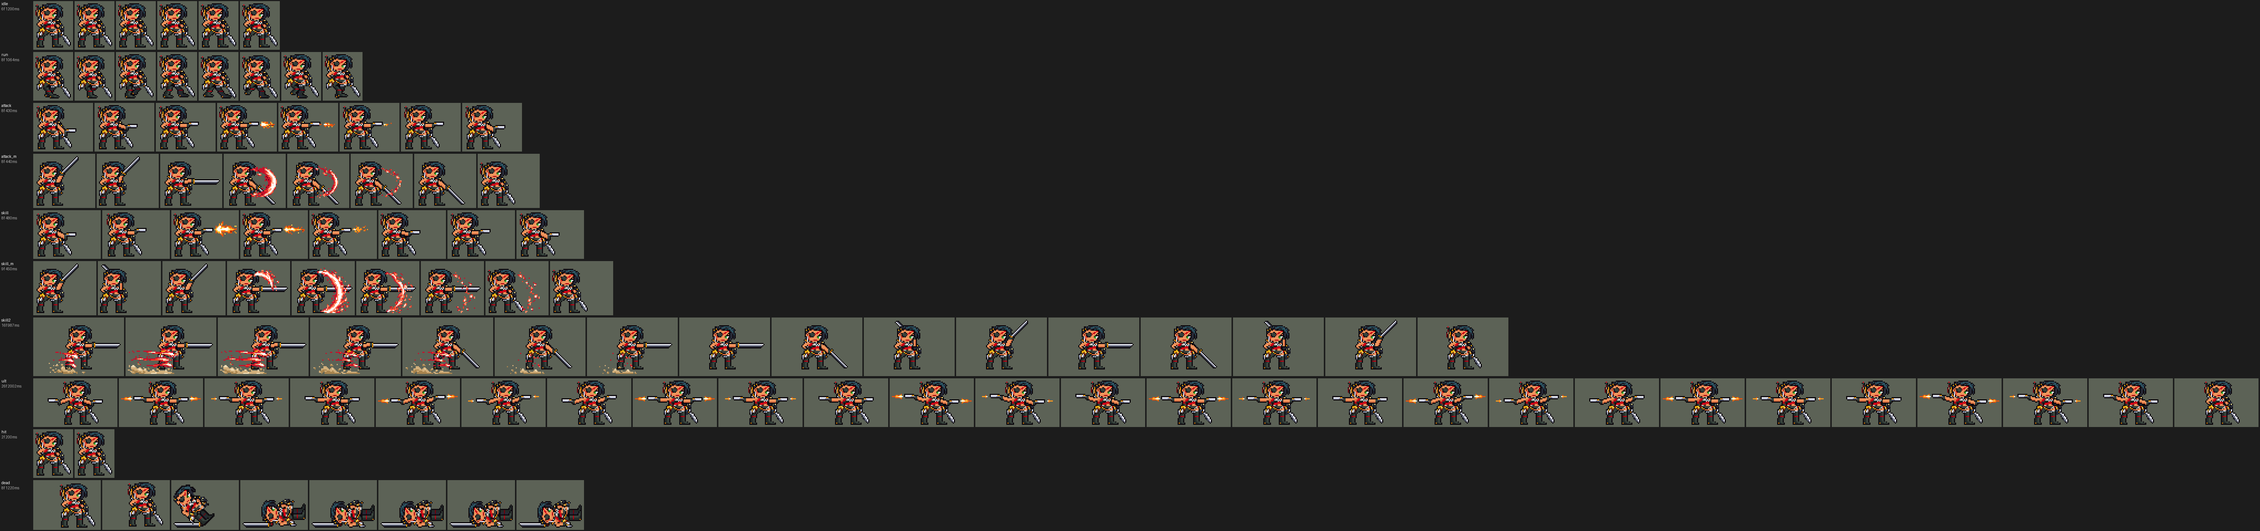
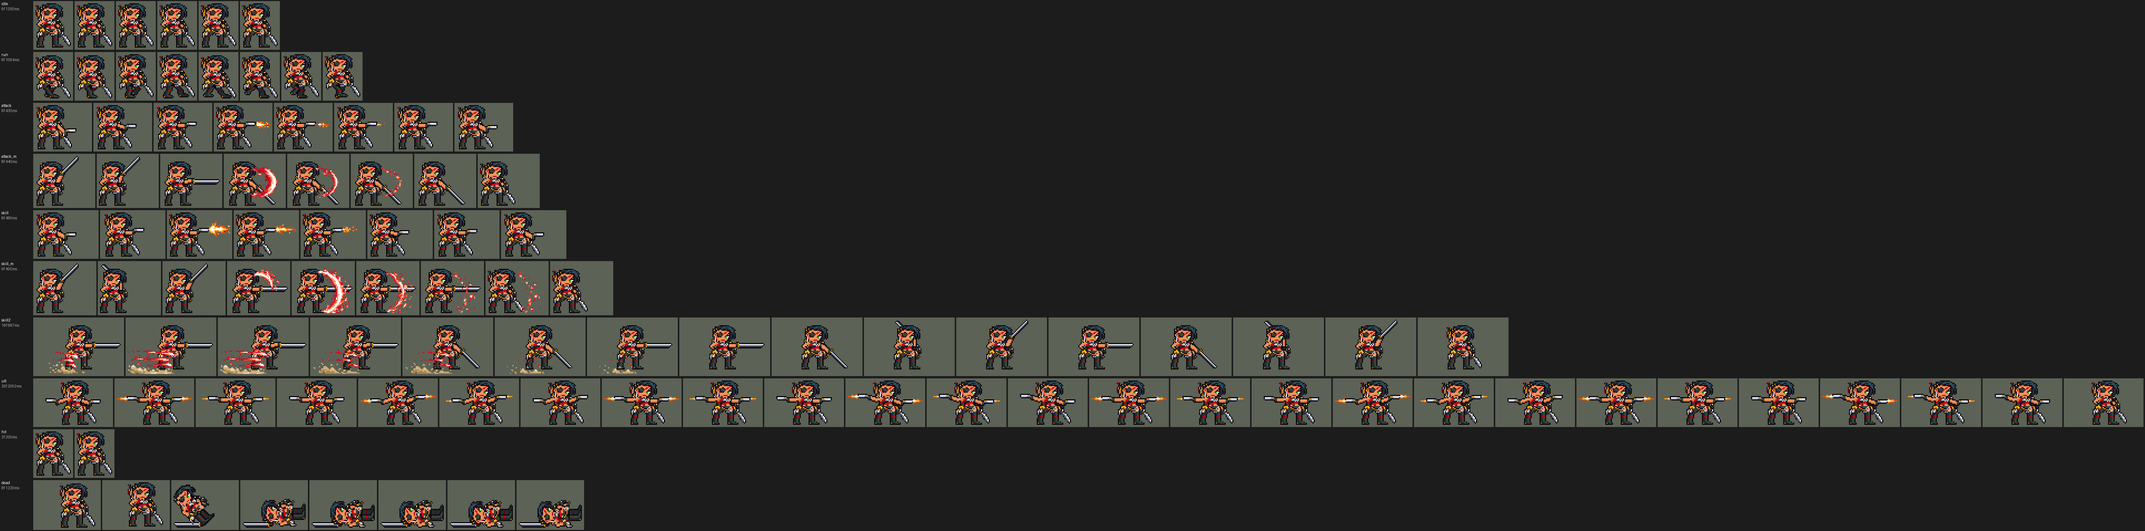
Samira: README, champion-data and porting rows; 0.66.0 after main's Kayn 0.65.0; flashes on the muzzles
- the muzzle flashes moved onto the barrels' ends (1-3 squares of gap)
- README: her section (kit, numbers +1.73 / +1.38, art route with the user's words, red side), the showcase, the list
- champion-data: Yasuo synergy line (0.25 a game, no change), the probe-picked gun/sword attack, the Style grade
  climb, the ult only at full grade; porting-heroes: four rows

Changed region(s): [[0.0, 0.0, 0.7165, 1.0], [0.7165, 0.7188, 0.8723, 0.7812], [0.8723, 0.7188, 0.9969, 0.7812]]

diff --git a/tools/kit/setup_samira.py b/tools/kit/setup_samira.py
@@ -4,7 +4,7 @@
 
 Writes (in league/): text/champion.i18n (league_samira in every language, description + skill_name),
 sound/sfx/league_samira_*.sound_info, mod.override_info (every sound and clip), style/champion_view (face, centre and the
-ban/pick card's point once the sprite is in), mod.mod_info (0.65.0, Samira named). Only her keys change in the shared
+ban/pick card's point once the sprite is in), mod.mod_info (0.66.0, Samira named). Only her keys change in the shared
 files. JSON: indent 2, CRLF, UTF-8. --check only prints each text's shown length against lint_mod's TOOLTIP_MAX.
 Names: the client's zh_CN string table (莎弥拉 / 沙漠玫瑰, 悍勇本色, 交火, 锋旋, 狂飙, 炼狱扳机) and Data Dragon 16.19.1
 (zh_TW 煞蜜拉 / 荒漠薔薇, 敢死風采, 狂戰本能, 劍刃風暴, 狂野突進, 地獄火狂襲; ko 사미라 / 사막의 장미, 무모한 충동, 천부적 재능,

diff --git a/README.md b/README.md
@@ -2,7 +2,7 @@
 
 团战经理2（Teamfight Manager 2）的英雄联盟英雄 Mod，mod_id 是 `league`。纯数据 mod：不改游戏本体，不需要编译。
 
-英雄：盖伦（`league_garen`）、艾希（`league_ashe`）、拉克丝（`league_lux`）、李青（`league_leesin`）、索拉卡（`league_soraka`）、德莱厄斯（`league_darius`）、阿木木（`league_amumu`）、亚索（`league_yasuo`）、金克丝（`league_jinx`）、蕾欧娜（`league_leona`）、提莫（`league_teemo`）、易（`league_masteryi`）、安妮（`league_annie`）、厄运小姐（`league_missfortune`）、迦娜（`league_janna`）、墨菲特（`league_malphite`）、艾克（`league_ekko`）、永恩（`league_yone`）、伊泽瑞尔（`league_ezreal`）、锤石（`league_thresh`）、凯尔（`league_kayle`）、费德提克（`league_fiddlesticks`）、阿狸（`league_ahri`）、卢锡安（`league_lucian`）、莫甘娜（`league_morgana`）、锐雯（`league_riven`）、贝蕾亚（`league_briar`）、阿卡丽（`league_akali`）、薇恩（`league_vayne`）、娜美（`league_nami`）、贾克斯（`league_jax`）、黛安娜（`league_diana`）、维迦（`league_veigar`）、塔里克（`league_taric`）、崔丝塔娜（`league_tristana`）、菲奥娜（`league_fiora`）、菲兹（`league_fizz`）、萨科（`league_shaco`）、凯特琳（`league_caitlyn`）、魔腾（`league_nocturne`）、布里茨（`league_blitzcrank`）、卡蜜尔（`league_camille`）、乐芙兰（`league_leblanc`）、卡莎（`league_kaisa`）、娑娜（`league_sona`）、凯南（`league_kennen`）、蔚（`league_vi`）、瑞兹（`league_ryze`）、烬（`league_jhin`）、基兰（`league_zilean`）、亚托克斯（`league_aatrox`）、凯隐（`league_kayn`）、希维尔（`league_sivir`）、崔斯特（`league_twistedfate`）、洛（`league_rakan`）、伊芙琳（`league_evelynn`）、瑟提（`league_sett`）、丽桑卓（`league_lissandra`）、韦鲁斯（`league_varus`）、阿利斯塔（`league_alistar`）、蛮王（`league_tryndamere`）、泽拉斯（`league_xerath`）、赵信（`league_xinzhao`）。每组上单、打野、中单、ADC、辅助各一：第一组盖伦、李青、拉克丝、艾希、索拉卡，第二组德莱厄斯、阿木木、亚索、金克丝、蕾欧娜，第三组提莫、易（无极剑圣）、安妮、厄运小姐、迦娜，第四组墨菲特、艾克、永恩、伊泽瑞尔、锤石，第五组有上单凯尔、打野费德提克、中单阿狸、ADC 卢锡安、辅助莫甘娜，第六组有上单锐雯、打野贝蕾亚、中单阿卡丽、ADC 薇恩、辅助娜美，第七组有上单贾克斯、中单维迦、ADC 崔丝塔娜、辅助塔里克，第八组有上单菲奥娜（剑姬，排在原定凯南的位置，凯南延后）、中单菲兹、ADC 凯特琳、辅助布里茨，第九组有上单卡蜜尔（青钢影）、打野魔腾、中单乐芙兰、ADC 卡莎、辅助娑娜。按用户 10 月 2 日排的顺序，打野黛安娜是第七组的，萨科是第八组的。第十组有上单凯南、打野蔚、中单瑞兹、ADC 烬、辅助基兰。第十一组有上单亚托克斯（剑魔）、打野凯隐、中单崔斯特、ADC 希维尔、辅助洛。第十二组有上单瑟提（腕豪）、打野伊芙琳、中单丽桑卓、ADC 韦鲁斯、辅助阿利斯塔（牛头）。第十三组有上单蛮王、打野赵信。蛮王之后按用户的计划做中单泽拉斯。
+英雄：盖伦（`league_garen`）、艾希（`league_ashe`）、拉克丝（`league_lux`）、李青（`league_leesin`）、索拉卡（`league_soraka`）、德莱厄斯（`league_darius`）、阿木木（`league_amumu`）、亚索（`league_yasuo`）、金克丝（`league_jinx`）、蕾欧娜（`league_leona`）、提莫（`league_teemo`）、易（`league_masteryi`）、安妮（`league_annie`）、厄运小姐（`league_missfortune`）、迦娜（`league_janna`）、墨菲特（`league_malphite`）、艾克（`league_ekko`）、永恩（`league_yone`）、伊泽瑞尔（`league_ezreal`）、锤石（`league_thresh`）、凯尔（`league_kayle`）、费德提克（`league_fiddlesticks`）、阿狸（`league_ahri`）、卢锡安（`league_lucian`）、莫甘娜（`league_morgana`）、锐雯（`league_riven`）、贝蕾亚（`league_briar`）、阿卡丽（`league_akali`）、薇恩（`league_vayne`）、娜美（`league_nami`）、贾克斯（`league_jax`）、黛安娜（`league_diana`）、维迦（`league_veigar`）、塔里克（`league_taric`）、崔丝塔娜（`league_tristana`）、菲奥娜（`league_fiora`）、菲兹（`league_fizz`）、萨科（`league_shaco`）、凯特琳（`league_caitlyn`）、魔腾（`league_nocturne`）、布里茨（`league_blitzcrank`）、卡蜜尔（`league_camille`）、乐芙兰（`league_leblanc`）、卡莎（`league_kaisa`）、娑娜（`league_sona`）、凯南（`league_kennen`）、蔚（`league_vi`）、瑞兹（`league_ryze`）、烬（`league_jhin`）、基兰（`league_zilean`）、亚托克斯（`league_aatrox`）、凯隐（`league_kayn`）、希维尔（`league_sivir`）、崔斯特（`league_twistedfate`）、洛（`league_rakan`）、伊芙琳（`league_evelynn`）、瑟提（`league_sett`）、丽桑卓（`league_lissandra`）、韦鲁斯（`league_varus`）、阿利斯塔（`league_alistar`）、蛮王（`league_tryndamere`）、泽拉斯（`league_xerath`）、赵信（`league_xinzhao`）、莎弥拉（`league_samira`）。每组上单、打野、中单、ADC、辅助各一：第一组盖伦、李青、拉克丝、艾希、索拉卡，第二组德莱厄斯、阿木木、亚索、金克丝、蕾欧娜，第三组提莫、易（无极剑圣）、安妮、厄运小姐、迦娜，第四组墨菲特、艾克、永恩、伊泽瑞尔、锤石，第五组有上单凯尔、打野费德提克、中单阿狸、ADC 卢锡安、辅助莫甘娜，第六组有上单锐雯、打野贝蕾亚、中单阿卡丽、ADC 薇恩、辅助娜美，第七组有上单贾克斯、中单维迦、ADC 崔丝塔娜、辅助塔里克，第八组有上单菲奥娜（剑姬，排在原定凯南的位置，凯南延后）、中单菲兹、ADC 凯特琳、辅助布里茨，第九组有上单卡蜜尔（青钢影）、打野魔腾、中单乐芙兰、ADC 卡莎、辅助娑娜。按用户 10 月 2 日排的顺序，打野黛安娜是第七组的，萨科是第八组的。第十组有上单凯南、打野蔚、中单瑞兹、ADC 烬、辅助基兰。第十一组有上单亚托克斯（剑魔）、打野凯隐、中单崔斯特、ADC 希维尔、辅助洛。第十二组有上单瑟提（腕豪）、打野伊芙琳、中单丽桑卓、ADC 韦鲁斯、辅助阿利斯塔（牛头）。第十三组有上单蛮王、打野赵信、ADC 莎弥拉。蛮王之后按用户的计划做中单泽拉斯。
 
 对敌人放的小技能，施放目标是「敌人（不含防御塔）」，清线、打野时也会放；只有大招、德莱厄斯的 E（拉人）、阿木木的 Q（绷带）、锤石的 Q（钩子）、阿狸的 E（魅惑）、薇恩的 E（恶魔审判）、维迦的 E（扭曲空间）、凯特琳的 W（约德尔诱捕器）、卡莎的 W（虚空索敌）、基兰的 E（时光发条）、洛的 W（盛大登场，落地后接 E 轻舞成双）和阿利斯塔的 W（野蛮冲撞，撞完接大地粉碎）只对英雄放（莫甘娜的 Q 对什么都放，但射程内有敌方英雄时朝英雄射；贝蕾亚的 Q 也一样，射程内有敌方英雄时扑英雄；娜美的 W、Q 也是，射程内有敌方英雄时打英雄；黛安娜的 Q 也一样，射程内有敌方英雄时朝英雄射，E 带着月光再冲的第二下也先找英雄；菲奥娜的 Q、W 也一样，射程内有敌方英雄时冲向、刺向英雄；凯特琳的 Q 也一样，射程内有敌方英雄时朝英雄射；凯南的 Q 也一样，射程内有敌方英雄时锁定英雄射；伊芙琳的 W 也一样，射程内有敌方英雄时先给英雄挂印记；丽桑卓的 Q 也一样，射程内有敌方英雄时朝英雄射，W 身边没人时冰爪只滑向队友正在打的敌方英雄，否则只是扔出去打一下；韦鲁斯的 Q 也一样，射程内有敌方英雄时拉满弓朝英雄射，只有小兵野怪时快速出手）；提莫的 W 是给自己加速和伪装，也只在敌方英雄靠近时放。最早几个英雄的小技能只对英雄放，打野时一直平 A 野怪，按玩家反馈改了。
 
@@ -117,6 +117,8 @@
 ![赵信演示：他跑进场；E 无畏冲锋：飞身持枪扑向德莱厄斯，身后拖着蓝白电光，落地时脚下一圈冲击波，德莱厄斯被减速，头顶亮起三道金爪印；Q 三重爪击：三下强化突刺，爪印一道一道减少，第三下把德莱厄斯挑飞，被动第三下回血的金光；两下普攻后被动大挥再回一次血；W 风斩电刺：身前横扫出金色月牙，再朝前刺出一道电光，穿过德莱厄斯和身后的盖伦，两人脚下减速；R 新月护卫：起手转枪的金光，绕身一圈蓝白新月刃光，被挑战的德莱厄斯留在身边、头顶金色挑战纹章，身后的盖伦被击退，他身后亮起金色护卫光 3 秒；他继续刺，德莱厄斯倒下](docs/preview/league_xinzhao_showcase.gif?v=1006xz)
 
 ![泽拉斯演示：他滑进场，一颗奥术法球打德莱厄斯；Q 奥能脉冲蓄满：举手蓄力、前爪聚起光球，一道长光束贯穿德莱厄斯和身后的盖伦；一颗法球，再一颗法力澎湃的强化法球（手上涌出蓝光、法球绕着闪电）；E 冲击法球打中德莱厄斯，头顶电光转圈晕住，随后他脚下亮起毁灭之眼的法阵、一道光柱砸下来；R 奥术仪式：脚下法阵亮起、光柱冲天，引导时脚下符文法阵转动，连发 4 发炮击——落点先出瞄准圈，光弹从天而降炸开，最后一发击杀德莱厄斯](docs/preview/league_xerath_showcase.gif?v=1006xr2)
+
+![莎弥拉演示：她跑进场，开一枪打德莱厄斯（头顶评价 E）；Q 交火开枪：枪口喷火，一发火焰子弹穿过德莱厄斯和身后的盖伦（D）；E 狂飙：拖着红色速度线和黄沙冲过德莱厄斯（C），落到他身后接 W 锋旋，一圈剑刃火环绕身转，砍两下（B）；她转身朝左（红色方的样子）挥剑砍德莱厄斯（A），Q 近身半月斩（S，头顶金红爆闪）；R 炼狱扳机：原地旋转双枪连射，身边枪火和玫瑰花瓣，子弹打向两人，德莱厄斯倒下、E 刷新的金光](docs/preview/league_samira_showcase.gif?v=1006sm)
 
 ## 英雄：盖伦
 
@@ -2648,6 +2650,46 @@ python addons/league_xinzhao_guard/make_override.py   # 附加包的英雄数据
 - 红色方：出招后才播放的施法者特效（被动回血、E 落地、W 横扫、R 横扫）都不跟随（`is_follow: false`），按朝向镜像；E 冲刺光痕、R 起手在动作第一 tick 播放、跟随。W 电刺是线状弹道的画面，按施法方向转动，做成严格上下对称（Codex 的差 4–12%，按中线镜像），朝左放时转半圈和左右翻转一模一样；R 之后的护卫光是 buff 的画面，游戏不按朝向翻转，做成严格左右对称。`lint_mod.py` 对赵信 0 错误、0 警告。
 
 逐帧预览：[`docs/preview/league_xinzhao_frames.png`](docs/preview/league_xinzhao_frames.png)，特效：[`docs/preview/league_xinzhao_effects.png`](docs/preview/league_xinzhao_effects.png)。
+
+## 英雄：莎弥拉
+
+| 部分 | 内容 |
+|---|---|
+| 定位 | ADC（射手，分类 Range），用户排的第十三组的 ADC（同组：上单蛮王、打野赵信，中单布兰德、辅助派克以后做），第 64 位英雄。沙漠玫瑰 莎弥拉：远处开枪、近身挥剑，打出不同的招式把评分从 E 升到 S，到 S 才能放 R。技能位用户选的「Q / E→W 连招」，W 选「旋转时减伤」，R 选「这个不能走的话可以改RUST文件」（主包里 R 原地旋转连射，主包自己完整可玩；边走边射以后做原生附加包），被动「冲上去挑飞被控制的英雄」选做 |
+| 普攻 / 被动 | 普攻射程 55000（英雄联盟 500 码），攻击间隔 58 tick。第 1 tick 先发一颗看不见的探测弹：目标在 8000 内就挥剑（`attack_m`，第 12 tick 砍中，额外 15 + 20% 攻击力的魔法伤害——英雄联盟的近战加成），否则开枪（第 12 tick 子弹出枪口）。被动「悍勇本色」：用和上一次不同的招式（开枪、挥剑、Q、E、W 各算一种）命中英雄，评价 E→D→C→B→A→S 升一级，每级移速 +3%，9 秒没打到英雄清零；评价字母挂在头顶。攻击被控制住的敌方英雄时冲到他身上把他击飞 0.5 秒（英雄联盟的挑飞连击，6 秒一次，不然会和她自己的击飞无限连） |
+| 技能1 | Q「交火」：冷却 300 tick（5 秒），射程 90000，也对小兵和野怪放。身边 28000 内有敌人时挥剑斩前方的半圆（半径 32000，第 10 tick），否则开枪：一发直线子弹（95000 长，每 tick 9000）打中第一个敌人（第 9 tick 出枪口）。都是 30 + 130% 攻击力的物理伤害，挥剑再加近战加成 |
+| 技能2 | E「狂飙」→ W「锋旋」（英雄联盟的 E→W 连招）：冷却 720 tick（12 秒），只对敌方英雄放（射程 60000）。冲刺穿过目标落到他身后（每 tick 8000），落点 22000 内的敌人受到 70 + 40% 攻击力的魔法伤害，攻击速度 +30% 持续 5 秒；落地接锋旋：原地旋转 0.75 秒，32000 内砍两次（25 + 70% 攻击力 + 近战加成），旋转时受到的普攻伤害降低 60%（英雄联盟是挡掉飞行道具，这里挡不了弹道，用户选的减伤）。被她打中过的英雄 40 tick 内死掉就刷新所有技能冷却（英雄联盟的击杀刷新 E） |
+| 大招 | R「炼狱扳机」：只对敌方英雄放（射程 50000），评价到 S 才会放（AI 会在任何时候放技能位，所以没到 S 时这个技能只「待命」330 tick：到 S 后的下一次普攻放出，没用上就退还冷却，伊芙琳 R 的做法）。原地旋转连射 2 秒（120 tick），每 12 tick 向 55000 内每个敌人各开一枪：10 + 40% 攻击力的物理伤害，期间生命偷取 40%；被控制会打断旋转动作，但枪照样打（英雄联盟的 R 也不停）。放完评价清零。冷却 300 tick |
+| 数值 | 攻击 112（+20）、生命 1030（+92）、护甲 26（+7）、魔抗 15（+3）、移速 900（+9）。数值是自己设计的，用 SDK 对战模拟调：下路，对 4 个原版 ADC（`gunner`、`soldier`、`archer`、`gambler`），3 套阵容、两边各打，10 分钟。初稿 −2.72（E 冲刺距离固定把她留在兵线里、评价 9 秒太短升不到 S）；E 只冲英雄并落到目标身后、挥剑普攻单独算一种招式、攻击 100 → 112、生命 920 → 1030、护甲 22 → 26、射程 50000 → 55000、Q 110% → 130%、E 50 → 70、W 50% → 70% 后 +1.36 / +1.19；配上动作条和特效后 +1.73 / +1.38（同包韦鲁斯 +1.63 / +1.91、烬 +1.43 / +2.08） |
+| 亚索联动 | 被动的挑飞是亚索大招要的击飞：莎弥拉在下路时亚索大招每局对英雄放 0.25 次（同批原版枪手 0.35，韦鲁斯 0.67），挑飞要先有人控住对面，不用调 |
+| 精灵图 | 10 个动作 99 帧（含画进帧里的特效）：待机、移动、开枪普攻（`attack`）、挥剑普攻（`attack_m`）、Q 开枪（`skill`）、Q 挥剑（`skill_m`）、E→W（`skill2`）、R（`ult`）、受击、死亡。造型 32 × 40 px，28 色。待机 6 帧同一张、不呼吸（大剑垂到脚边，呼吸的缝会把剑身切断）；头像截取点 (1, −38) |
+| 特效 | Codex 生图的 23 张（`import_samira.py` 缩成游戏像素）：`league_samira_fx` 普攻、Q、R 的子弹和命中，挥剑、Q 剑斩、E、W 的命中，挑飞，E 击杀刷新的金光，头顶的评价字母 E D C B A S、升级闪光和到 S 的爆闪；`league_samira_big` W 绕身旋转的剑刃火环、R 身边的枪火和玫瑰花瓣；画进她自己动作帧里的：普攻和 Q 的枪口火光、R 两把枪的火光、挥剑的火焰弧光、Q 的半月斩、E 冲刺的拖尾 |
+| 音效 | 英雄联盟的音效和配音（`tools/lol/extract_samira.py`）：开枪、挥剑、命中，评价升级和到 S，Q 上膛、开枪、挥剑、命中，E 冲刺、命中，W 旋转、命中，R 开始、连射、每一枪；Q（开枪、挥剑各一句）、E、R 的中文配音。版权属于 Riot Games，**不提交到仓库**，按下面的命令在本地生成 |
+| 图标 | 官方技能图标（Q / E / R），从本地客户端提取，缩到 64×64 |
+
+重新生成（素材来自本机的英雄联盟客户端，音频不进仓库）：
+
+```bash
+python tools/lol/extract_samira.py --lol "D:\WeGameApps\lol" --vgmstream "<vgmstream-cli.exe 路径>"
+python tools/kit/build_samira.py        # 技能数据，数字都在脚本的参数表 P 里；--nodes 看每棵技能树的节点数
+python tools/kit/setup_samira.py        # 五种语言的文字、音效配置、共享文件里她的键（头像点在脚本的 VIEW 里）
+python tools/art/design_samira.py       # 造型：Codex 原稿 A 按格子读回、整行整列删到 40 行（只护住眼睛），武器露出轮廓，靴子理直
+python tools/lol/native_pose.py assets/source/samira/poses.json --out <渲染文件夹>   # 动作参考帧
+python tools/art/rig_samira.py          # 动作：每帧都是造型本身，手臂、腿、武器按下面的做法摆；--review <文件夹> 先看
+python tools/art/import_samira.py       # 特效；--raw assets/source/samira/codex_fx 先把生图原稿缩成游戏尺寸的原尺寸条
+python tools/art/import_native.py --hero samira   # 动作条 + 画进帧里的特效（assets/source/native/samira_bake.json）
+python tools/art/preview_samira.py
+```
+
+美术（原画的提示词见 [`assets/source/samira/PICTURE_PROMPT.md`](assets/source/samira/PICTURE_PROMPT.md)，造型的见 [`MODEL_PROMPTS.md`](assets/source/samira/MODEL_PROMPTS.md)，动作的见 [`MODEL_STRIPS.md`](assets/source/samira/MODEL_STRIPS.md)，特效的见 [`PROMPTS_FX.md`](assets/source/samira/PROMPTS_FX.md)；Codex 的交付在 [`codex_picture/`](assets/source/samira/codex_picture/)、[`codex_model/`](assets/source/samira/codex_model/)、[`codex_strips/`](assets/source/samira/codex_strips/)、[`codex_fx/`](assets/source/samira/codex_fx/)；附图包由 `tools/art/pack_samira_*.py` 在本地生成，英雄联盟的渲染和 oppi 的图不进仓库）：
+
+- 原画：Codex 画了 A（双手叉腰、大剑背在身后）和 B，用户选 A。
+- 造型：Codex 的草稿 1 按格子读回、整行整列删到 40 行（用户：「40 行原样」；先护住整张脸会把身体挤成碎点，改成只护眼睛的行列）。武器看不清（「武器有点看不清啊」「你可以参考隔壁oppi的怎么画的」）：照 oppi 的做法让大剑的剑身和近侧手枪的枪管露出身体轮廓；Codex 按 oppi 待机姿势重摆的版本用户没要（「用左边的」），只把膝盖以下的靴子理直（「你帮我挑挑干净 脚这里都是歪的」）。
+- 动作：Codex 的动作条每条都重画了她、自己的检查也没通过，用户选「我用蛮王那套做」——全部用造型自己的像素摆（`rig_samira.py`）。第一版（手臂自己画成木板、身体按行错开、腿平移、死亡切掉几行）被否：「手变形 走路没交叉步 死亡动画完全错误 模型变形」；第二版（两段骨骼的手臂、照英雄联盟关节画的腿）也被否：「手臂对吗 走路对吗？」「你看了不奇怪吗 没违和感吗」——远侧肩膀放在了脖子旁边，手臂画在胸口和头发上面像从胸口长出来，R 两条手臂连成一根横穿身体的棍子；跑步的腿有一截她没有的皮肤大腿、红带跑到了胯上、两腿收成 V 字。第三版：手臂是直的、3 格粗（造型的肤色上亮下暗），手端两格墨绿手套，和叉腰的手臂一样长，从躯干上方的两个肩角出来——近侧从左肩外沿出来、画在身体上面，描边不压肩膀；远侧从躯干右上角出来、在躯干下面但压在背后的头发上；手臂抬起后原来叉腰的位置用躯干侧面和头发的颜色补上。枪和剑画在手臂下面、手套握住柄，剑只用整 90° 和 45° 的方向（不旋转像素），每一帧手和武器都看得见。跑步的腿用造型自己腿的每一行（两格深绿两格浅绿、膝盖红带、远侧靴子的脚和金鞋跟，脚尖朝前）沿着胯—膝—脚踝摆，两胯收到身体下方相隔 6 格，前后各迈 5 格：近侧腿在前时两腿交叉，远侧腿稍暗一档（不然交叉时糊成一团），抬起的脚最多离地 3 行，身体随落地下沉 1 行；手还是叉腰（英雄联盟跑步时手也在腰边）。死亡：受击、被击退、整个人转 45° 往后倒，再转 90° 仰躺（双腿并拢、手放在身侧），大剑落在头旁边。
+- 特效用 Codex 画的 23 张（生图原稿，`import_samira.py --raw`：每张按格子等分，每个游戏像素取覆盖的原稿像素里最多的颜色，颜色归到包里给每张的色阶——枪火的白金橙、剑火的深红、玫瑰花瓣、评价字母的金、冲刺扬起的黄沙；火光外圈最暗的一档去掉，评价字母保留描边）。
+- 红色方（用户：「注意红色方和蓝色方的技能特效不要不对称 导致歪的」）：游戏只会按朝向镜像英雄自己的动作帧、不镜像特效图，所以有朝向的特效全部画进她的动作帧（`samira_bake.json`）：普攻、Q、R 两把枪的枪口火光，挥剑的弧光，Q 的半月斩，E 冲刺的拖尾——技能数据里不再单独播放 Q 斩和 E 拖尾。三种子弹做成严格上下对称（朝左飞时转半圈和左右翻转一样）；挂在她身上、不管朝哪边都播放的（W 剑环、R 枪火、E 刷新、升级和到 S 的闪光）做成严格左右对称，剑环和枪火在她身体上方那半圈掏空，看起来从她身后绕过；评价字母不镜像。子弹从她身上 8 格高处出发、前 2–3 tick 不显示，飞过枪口才出现（太高会斜着飞向目标脚下）。演示 GIF 后半段她转身朝左打，就是红色方的样子。
+
+逐帧预览：[`docs/preview/league_samira_frames.png`](docs/preview/league_samira_frames.png)，特效：[`docs/preview/league_samira_effects.png`](docs/preview/league_samira_effects.png)。
 
 ## 选人卡片位置（`banpick_center`）
 

diff --git a/.claude/skills/tfm2-hero-mod/references/champion-data.md b/.claude/skills/tfm2-hero-mod/references/champion-data.md
@@ -1303,6 +1303,8 @@ league_alistar (support, --lane 4, 2026-10-05, Pulverize's and Headbutt -> Pulve
 2.23 a game; league_leona 2.19 and the base priest 0.50 in the same batch - no change.
 league_xerath (mid, --lane 2, 2026-10-06, Shocking Orb's 0.75-2 s stun on one unit): 0.94 a game; the base lightning
 mage 3.40 and league_lissandra 2.10 in the same batch - no change.
+league_samira (bottom, --lane 3, 2026-10-06, the passive's 0.5 s juggle - only onto a champion already in crowd
+control, once every 6 s): 0.25 a game; the base gunner 0.35 and league_varus 0.67 in the same batch - no change.
 
 **Kill trigger (league_jinx Get Excited!).** No effect fires on a kill, but section 4's facts make one:
 1. Next to the damaging projectile, fire an invisible twin with the same speed and path and
@@ -3401,6 +3403,27 @@ lands (`MoveToTarget`'s `end_effects`) and adds `q_1` (240 ticks); the attack pi
 45; Determination's third-attack count (two 240-tick counters, league_diana's) runs alongside, so every branch is
 built twice (passive or not): 12 leaves in one `SwitchByBuff` tree. Each of `q_1`..`q_3` binds its own picture (3, 2
 and 1 gold talon marks over his head), so the count shows.
+
+**A gun at range, a sword up close, picked per attack (league_samira).** The attack's effect fires on tick 1: a hidden
+`TargetProjectile` (speed 100000) at the target whose hit runs `RandomTarget AllyOnlySelf` within pm_reach (league_morgana's
+reach check) and sets a 4-tick caster flag a_close - set only when she stands that near; a second probe on
+`EnemyChampionInCC` sets a_cc. Two ticks later a `SwitchByBuff` tree picks the juggle (a_cc, its own 360-tick cooldown
+flag), the sword (a_close: `CasterAnimation attack_m`, the cut in a `Delayed`) or the gun (the action's own `attack`
+strip, the bullet in a `Delayed`). The gun's strip shows for the 3 ticks before a sword strip takes over - too short to
+see.
+
+**A grade that climbs on different kinds of hit (league_samira's Style).** Six permanent caster flags g1..g6 (one at a
+time, each with its move speed), a g_live timer run again by every champion hit, and per kind a short hit flag c_<kind>
+and a last-kind flag l_<kind>. Each action reads its own c_<kind> once, after its hits: a kind other than the last one
+climbs a grade (the ladder `SwitchByBuff g6 / g5 / ...` written once), the same kind only keeps it. The first read after
+g_live ran out drops the grade - nothing else runs on a timer. Each grade binds its own picture (the letters E..S over
+her head, never mirrored).
+
+**An ult only at full grade (league_samira R).** The AI casts an ult slot whenever a champion is in reach, so an empty
+branch below S would waste the cooldown: the slot only arms r_armed for 330 ticks (refunded through a 3-tick
+`ult_cooldown_mult` when it lapses, league_evelynn R), and at S - or the next attack at S while armed - it fires: the
+grades and the last kinds go, a 120-tick `CasterAnimation`, life steal, and the shots on her own `AddCasted` so crowd
+control stops the spin but not the shots.
 
 **One skill that starts another (league_alistar E -> Q).** League's Trample is folded into Pulverize and into
 Headbutt -> Pulverize: with its own cooldown flag off, a cast also starts the trample - one `AddCasted` on himself

diff --git a/.claude/skills/tfm2-hero-mod/references/porting-heroes.md b/.claude/skills/tfm2-hero-mod/references/porting-heroes.md
@@ -300,6 +300,10 @@ OK = direct, ~ = approximate, X = not possible in data-only mods.
 | Audacious Charge -> Three Talon Strike: dash in, slow, attack speed, then three empowered attacks, the third knocks up (Xin Zhao E -> Q) | `MoveToTarget` onto the target; the landing hits round him and adds `q_1`, which the attack walks to `q_3` (champion-data "A dash that arms the next three attacks") | ~ (no cooldown refunds from Q) |
 | Wind Becomes Lightning: a slash then a thrust that slows (Xin Zhao W) | a `DirDot` cone (`Forward`) on tick 13, a `LineRangeProjectile` 60000 long on tick 17 with the slow; its picture symmetric top and bottom (it turns with the cast) | ~ (no Challenged mark: the E's range cannot grow) |
 | Crescent Guard: a sweep that knocks back all but the challenged one, then immunity to damage from afar (Xin Zhao R) | the cast target gets a 3-tick `cc_immune` before the sweep's `Knockback` (champion-data "Knock back everyone but the one you challenge"); `target_hp_ratio` for League's current-health damage; 3 s of `damaged_reduce` 40 for the ranged immunity | ~ (nothing reads where the damage comes from) |
+| Daredevil Impulse: a Style grade E -> S from different kinds of hit, move speed per grade; melee bonus; dash onto immobilized champions (Samira passive) | six caster-flag grades climbed once an action by a kind other than the last (champion-data "A grade that climbs on different kinds of hit"); the sword's hits add 15 + 20% AD magic; an attack on `EnemyChampionInCC` dashes in and knocks up 0.5 s, every 6 s | ~ (no missing-health scaling; the juggle has a cooldown) |
+| Flair: a gun shot, or a sword sweep up close (Samira Q) | a `Direction` cast; an enemy within 28000 -> a half-circle `DirDot` cone, else a `LinearProjectile` stopping on the first enemy | ✓ |
+| Wild Rush -> Blade Whirl: dash through, attack speed, takedown reset; then a spin that blocks missiles (Samira E -> W) | `RushMoveToBack` onto a champion, the cut round her on landing, two spin cuts 0.75 s with `base_attack_damaged_reduce` 60; a champion kill within 40 ticks of her hit resets every cooldown (league_jinx's kill check) | ~ (attacks cut, missiles not blocked) |
+| Inferno Trigger: only at S, spin and shoot everyone round her for 2 s (Samira R) | armed slot fired at S (champion-data "An ult only at full grade"); a shot every 12 ticks at each enemy within 55000, 40% life steal; a native add-on is planned for walking while it fires | ~ (stands still in the main pack) |
 | Experience for an ally (Zilean's Time in a Bottle) | a caster timer per life; the next haste on an ally pours it out as a `Permanent` stat buff on both (champion-data "Experience as stats") | ~ (stats, not levels) |
 | Revive on death (Zilean R) | `undying` on the ally for the rune's time, the heal at its end; armed, cast on an ally in CC or himself when crowded (champion-data "A revive as an undying rune") | ~ (cannot die under it; no revive) |
 | 2-3 stage recast | `cooltime_use_count` or recast buff + `SwitchByBuff` | ~ (AI timing) |
